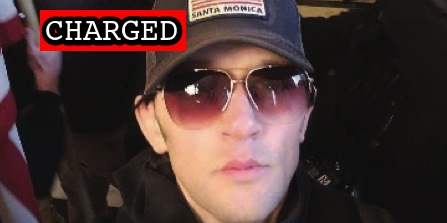
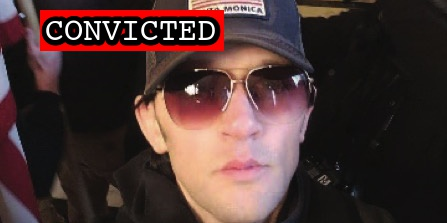
Latest import

Changed region(s): [[0.1163, 0.0269, 0.5235, 0.2422]]

diff --git a/docs/_suspects/nicholes-lentz.md b/docs/_suspects/nicholes-lentz.md
@@ -4,15 +4,15 @@ lastName: Lentz
 hashtag: NicholesLentz
 aka:
 residence: Florida
-status: Charged
+status: Convicted
 date: 2021-02-19
 charged: 2021-02-19
 indicted:
-convicted: 
-sentenced: 
-dismissed: 
+convicted: 2022-02-23
+sentenced:
+dismissed:
 deceased:
-plea_hearing:
+plea_hearing: 2022-02-23
 sentencing:
 age: 41
 occupation: Former Police Officer, Former U.S. Marine
@@ -25,7 +25,7 @@ courtroom:
 courthouse:
 raid:
 perpwalk:
-quote: 'We’re not here to hurt any cops, of course. I love my boys in blue, but this is overwhelming for them. There’s no way they can hold us back'
+quote: "We’re not here to hurt any cops, of course. I love my boys in blue, but this is overwhelming for them. There’s no way they can hold us back"
 title: Nicholes Lentz arrested on February 19, 2021
 description: Click for latest case details. Suspects innocent until proven guilty.
 author: seditiontrack
@@ -34,8 +34,14 @@ published: true
 caseNumber: 1:21-mj-206
 videos:
 charges:
+  - code: 18 USC § 1752(a)(1)
+    title: Entering a restricted building or grounds
+    url: https://www.law.cornell.edu/uscode/text/18/1752
+    felony: false
 sentence:
 ---
+
 - [News Report](https://www.miamiherald.com/article249418810.html)
 - [Complaint](https://extremism.gwu.edu/sites/g/files/zaxdzs2191/f/Nicholes%20Lentz%20Criminal%20Complaint.pdf)
-- [Statement of Facts](https://www.justice.gov/usao-dc/case-multi-defendant/file/1386241/download)
+- [Statement of Facts](https://www.justice.gov/usao-dc/case-multi-defendant/file/1476086/download)
+- [Plea Agreement](https://www.justice.gov/usao-dc/case-multi-defendant/file/1476081/download)

diff --git a/docs/_suspects/daniel-morrissey.md b/docs/_suspects/daniel-morrissey.md
@@ -4,15 +4,15 @@ lastName: Morrissey
 hashtag:
 aka:
 residence: Colorado
-status: Charged
+status: Convicted
 date: 2021-10-20
 charged: 2021-10-20
 indicted:
-convicted:
+convicted: 2022-02-23
 sentenced:
 dismissed:
 deceased:
-plea_hearing:
+plea_hearing: 2022-02-23
 sentencing:
 age:
 occupation:
@@ -34,8 +34,13 @@ published: true
 caseNumber:
 videos:
 charges:
+- code: 18 USC § 5104(e)(2)(G)
+  title: Parading, demonstrating or picketing in a Capitol building
+  url: https://www.law.cornell.edu/uscode/text/40/5104
+  felony: false
 sentence:
 ---
-
 - [News Report](https://www.thedenverchannel.com/news/local-news/another-colorado-man-facing-charges-for-entering-us-capitol-on-jan-6)
-- [Statement of Facts](https://extremism.gwu.edu/sites/g/files/zaxdzs2191/f/Daniel%20Michael%20Morrissey%20Statement%20of%20Facts.pdf)
+- [Statement of Facts](https://www.justice.gov/usao-dc/case-multi-defendant/file/1476521/download)
+- [Information](https://www.justice.gov/usao-dc/case-multi-defendant/file/1476511/download)
+- [Plea Agreement](https://www.justice.gov/usao-dc/case-multi-defendant/file/1476516/download)

diff --git a/docs/_suspects/matthew-krol.md b/docs/_suspects/matthew-krol.md
@@ -1,0 +1,42 @@
+---
+name: Matthew Krol
+lastName: Krol
+hashtag: PapaGruntStick
+aka:
+residence: Michigan
+status: Charged
+date: 2022-01-26
+charged: 2022-01-26
+indicted:
+convicted:
+sentenced:
+dismissed:
+deceased:
+plea_hearing:
+sentencing:
+age:
+occupation:
+affiliations:
+jurisdiction: Federal
+image: /images/preview/matthew-krol.jpg
+suspect: matthew-krol.jpg
+booking:
+courtroom:
+courthouse:
+raid:
+perpwalk:
+quote:
+title: Matthew Krol charged on January 26th, 2022
+description: Click for latest case details. Suspects innocent until proven guilty.
+author: seditiontrack
+layout: suspect
+published: false
+caseNumber: 1:22-mj-18
+videos:
+charges:
+sentence:
+---
+
+- [News Report]()
+- [Complaint](https://www.justice.gov/usao-dc/case-multi-defendant/file/1476366/download)
+- [Statement of Facts](https://www.justice.gov/usao-dc/case-multi-defendant/file/1476371/download)

diff --git a/docs/_suspects/carol-kicinski.md b/docs/_suspects/carol-kicinski.md
@@ -1,0 +1,42 @@
+---
+name: Carol Kicinski
+lastName: Kicinski
+hashtag:
+aka:
+residence:
+status: Charged
+date: 2022-02-22
+charged: 2022-02-22
+indicted:
+convicted:
+sentenced:
+dismissed:
+deceased:
+plea_hearing:
+sentencing:
+age:
+occupation:
+affiliations:
+jurisdiction: Federal
+image: /images/preview/carol-kicinski.jpg
+suspect: carol-kicinski.jpg
+booking:
+courtroom:
+courthouse:
+raid:
+perpwalk:
+quote:
+title: Carol Kicinski charged on February 22nd, 2022
+description: Click for latest case details. Suspects innocent until proven guilty.
+author: seditiontrack
+layout: suspect
+published: false
+caseNumber: 1:22-mj-36
+videos:
+charges:
+sentence:
+---
+
+- [News Report]()
+- [Complaint](https://www.justice.gov/usao-dc/case-multi-defendant/file/1476351/download)
+- [Statement of Facts](https://www.justice.gov/usao-dc/case-multi-defendant/file/1476356/download)

diff --git a/docs/_suspects/jon-heneghan.md b/docs/_suspects/jon-heneghan.md
@@ -1,0 +1,42 @@
+---
+name: Jon Heneghan
+lastName: Heneghan
+hashtag:
+aka:
+residence:
+status: Charged
+date: 2022-02-22
+charged: 2022-02-22
+indicted:
+convicted:
+sentenced:
+dismissed:
+deceased:
+plea_hearing:
+sentencing:
+age:
+occupation:
+affiliations:
+jurisdiction: Federal
+image: /images/preview/jon-heneghan.jpg
+suspect: jon-heneghan.jpg
+booking:
+courtroom:
+courthouse:
+raid:
+perpwalk:
+quote:
+title: Jon Heneghan charged on February 22nd, 2022
+description: Click for latest case details. Suspects innocent until proven guilty.
+author: seditiontrack
+layout: suspect
+published: false
+caseNumber:
+videos:
+charges:
+sentence:
+---
+
+- [News Report]()
+- [Complaint](https://www.justice.gov/usao-dc/case-multi-defendant/file/1476341/download)
+- [Statement of Facts](https://www.justice.gov/usao-dc/case-multi-defendant/file/1476346/download)

diff --git a/docs/_suspects/michael-oliveras.md b/docs/_suspects/michael-oliveras.md
@@ -31,10 +31,11 @@ description: Click for latest case details. Suspects innocent until proven guilt
 author: seditiontrack
 layout: suspect
 published: true
-caseNumber:
+caseNumber: 1:21-mj-006
 videos:
 charges:
 sentence:
 ---
 - [News Report](https://www.nj.com/camden/2022/01/parler-users-tipped-off-fbi-about-latest-nj-man-charged-in-us-capitol-riot.html)
-- [Complaint](https://extremism.gwu.edu/sites/g/files/zaxdzs2191/f/Michael%20Oliveras%20Criminal%20Complaint.pdf)
+- [Complaint](https://www.justice.gov/usao-dc/case-multi-defendant/file/1476376/download)
+- [Statement of Facts](https://www.justice.gov/usao-dc/case-multi-defendant/file/1476381/download)

diff --git a/docs/_suspects/mariposa-castro.md b/docs/_suspects/mariposa-castro.md
@@ -46,3 +46,4 @@ sentence:
 - [Statement of Facts](https://www.justice.gov/usao-dc/case-multi-defendant/file/1452321/download)
 - [Information](https://www.justice.gov/usao-dc/case-multi-defendant/file/1387496/download)
 - [Plea Agreement](https://www.justice.gov/usao-dc/case-multi-defendant/file/1452316/download)
+- [Sentencing Memo](https://extremism.gwu.edu/sites/g/files/zaxdzs2191/f/Mariposa%20Castro%20Defense%20Response%20to%20Government%20Sentencing%20Memorandum.pdf)
